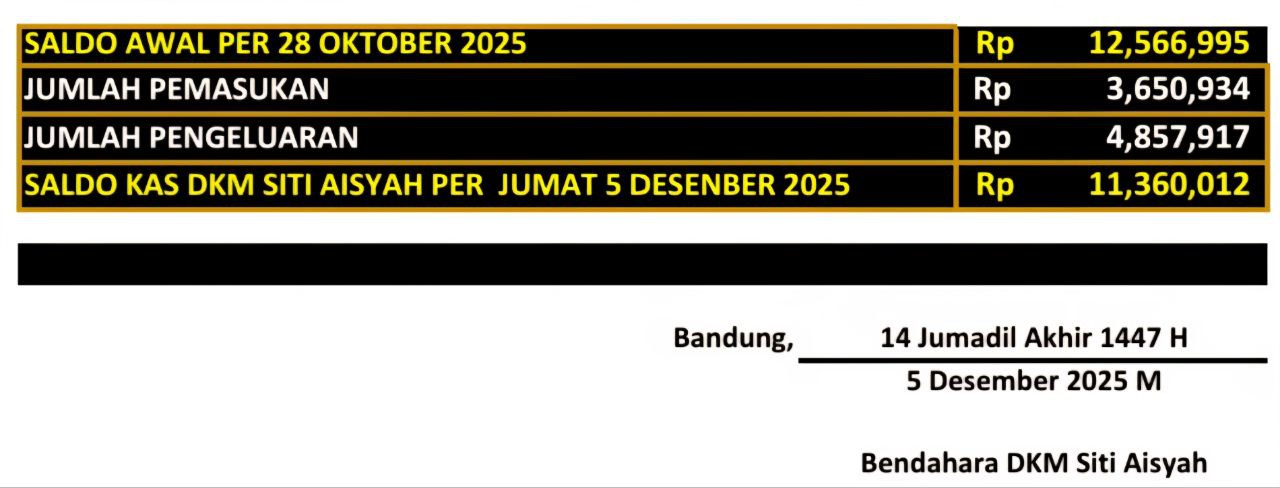
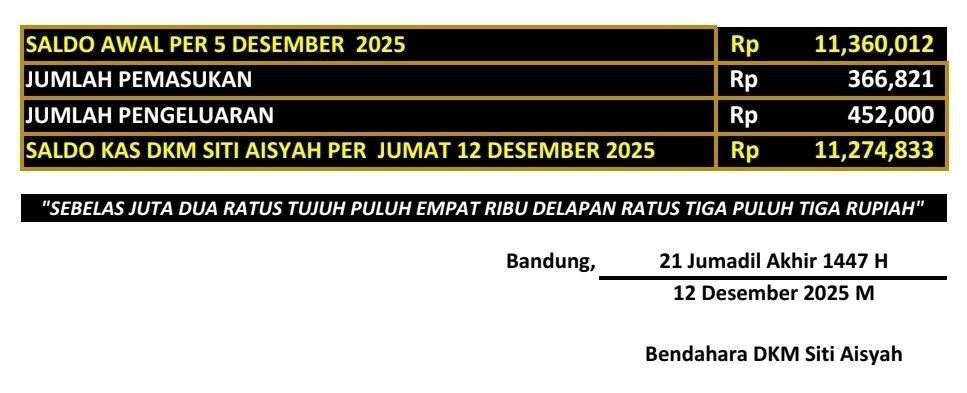
update informasi

diff --git a/index.html b/index.html
@@ -787,7 +787,7 @@
 					<!-- <div class="marquee horizontal" id="informasi">
 					</div> -->
 					<div class="marquee-x">
-						<p>Alhamdulillah kencleng Jumat 7 Jumadil Akhir 1447 H/ 27 November 2025 Sebesar `Rp 163.000`, Jazakallahu khairan katsiron
+						<p>Alhamdulillah kencleng Jumat 21 Jumadil Akhir 1447 H/ 12 Desember 2025 Sebesar `Rp 242.000`, Jazakallahu khairan katsiron
 						&nbsp; &nbsp;*&nbsp; &nbsp;
 						Setiap rupiah yang kau sedekahkan, menjadi saksi cinta kepada Allah dan sesama
 						&nbsp; &nbsp;*&nbsp; &nbsp;
